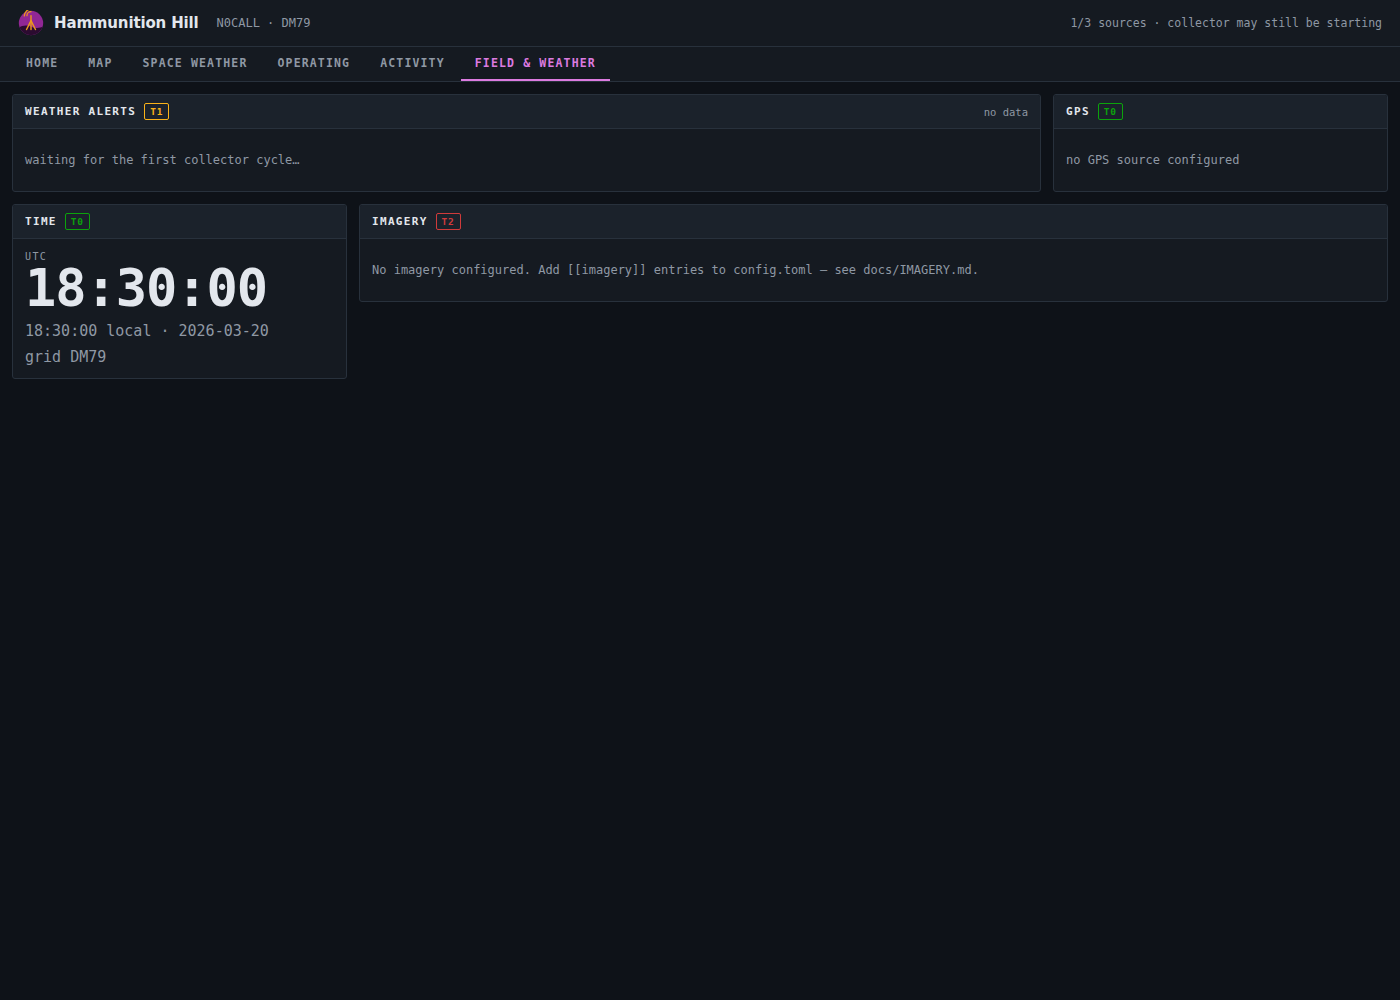
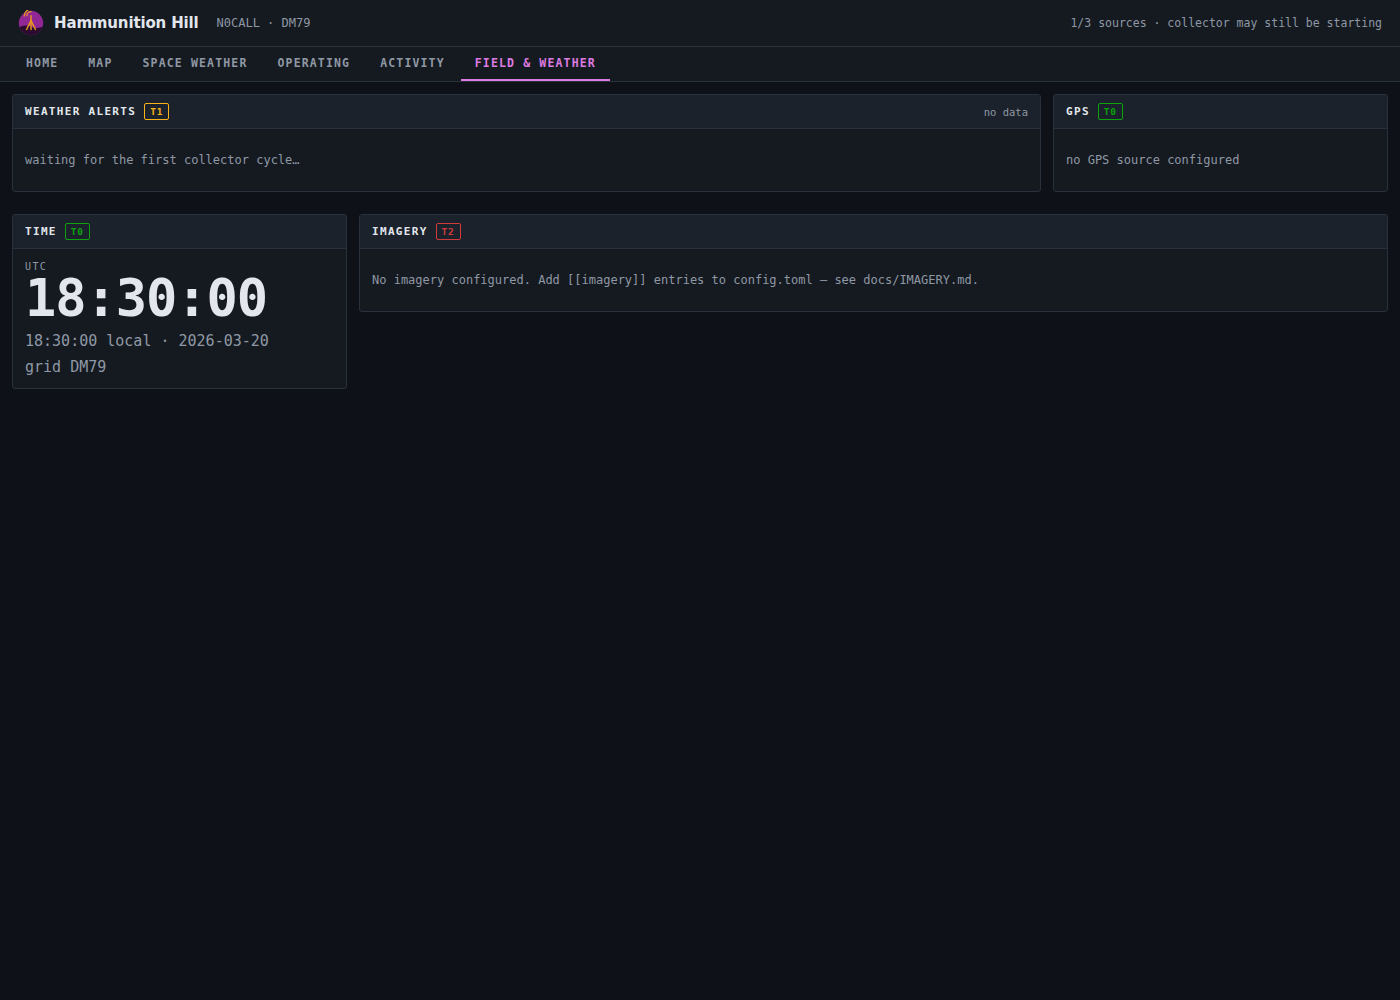
Pack panels like masonry, and make one sheet serve phone, laptop and TV (#33)
The dashboards had a lot of dead space, and the cause was structural: in
a CSS grid a row is as tall as the tallest panel in it, so a short panel
beside a tall one strands the whole difference. On Operating, the
logbook beside the band plan left ~1300px of nothing.

CSS cannot fix that alone, so app.js now measures each panel with a
ResizeObserver and spans it across a fine 8px row lattice;
grid-auto-flow: dense lets later panels fill holes earlier wide ones
left. Observing the panel itself cannot loop, because align-items: start
means a panel never stretches to its grid area -- its measured height is
always its content's natural height.

The lattice is measured from computed style, not assumed, because the
first version hardcoded the 12px gap while the phone breakpoint uses 8
-- every span came out short by the difference and each panel was
painted over by the next. That failure mode is silent everywhere: no
console error, every panel renders, each one underneath its neighbour.
So the render harness now fails if any two panels overlap by more than a
couple of pixels, on every dashboard. Falsified by shorting the span
arithmetic by six rows: six named overlaps with sizes.

One sheet, three rooms:

  * Under 680px -- a phone in the field over ZTNA back to the shack --
    one column, tighter chrome, finger-sized tab targets, and a header
    that wraps deliberately instead of three flex items colliding.
  * The middle is unchanged.
[…]

Changed region(s): [[0.2457, 0.217, 0.7064, 0.31], [0.0, 0.217, 0.215, 0.372]]

diff --git a/web/style.css b/web/style.css
@@ -78,7 +78,52 @@ body {
   gap: 12px;
   padding: 12px;
   grid-template-columns: repeat(auto-fill, minmax(320px, 1fr));
+  /* dense: let a later panel slot into a hole an earlier wide one left, so a
+     dashboard with mixed spans does not strand half a row of empty space.
+     Visual order can then differ from DOM order -- acceptable here because
+     every panel is an independent readout, nothing reads as a sequence, and
+     assistive tech follows the DOM, which is unchanged. */
+  grid-auto-flow: dense;
+  /* The 8px lattice the masonry packs into: app.js measures each panel and
+     spans it across as many of these as its content needs. align-items:
+     start is load-bearing twice over -- it keeps a panel its natural height,
+     and that is also what makes measuring the panel safe for the observer
+     that sets the span. */
+  grid-auto-rows: 8px;
   align-items: start;
+}
+
+/* --- one sheet, three rooms -------------------------------------------
+   The same dashboard is a phone in a field (over ZTNA back to the shack), a
+   laptop, and a TV on a shack wall. Nothing here changes what is shown --
+   only how much room it gets and how far away it is readable from.
+
+   The TV tiers scale with zoom rather than per-element font sizes: the sheet
+   is written in px throughout, and zoom scales layout and type together, so
+   the 320px column minimum becomes an effective 400px at 1.25 -- which is
+   what a 10-foot read needs anyway. Standardised in CSS Viewport and
+   supported by every browser a wall display plausibly runs; anything old
+   enough to lack it simply renders the laptop view. */
+@media (max-width: 680px) {
+  /* A phone: one column already (the 320px minimum sees to it); reclaim the
+     chrome. Padding and gaps shrink, tab targets grow to finger size, and the
+     header wraps deliberately -- brand on its own line, station and status
+     sharing the next -- instead of three flex items colliding mid-word. */
+  .grid { gap: 8px; padding: 8px; }
+  .topbar { padding: 8px 10px; gap: 4px 10px; flex-wrap: wrap; }
+  .topbar .brand { flex: 1 0 100%; }
+  .topbar .status { margin-left: auto; text-align: right; }
+  .tabs-bar { padding: 0 4px; }
+  .tab { padding: 12px 10px; font-size: 12px; }
+}
+@media (min-width: 1920px) {
+  body { zoom: 1.15; }
+}
+@media (min-width: 2560px) {
+  body { zoom: 1.4; }
+}
+@media (min-width: 3800px) {
+  body { zoom: 1.9; }
 }
 
 /* --- panel chrome ---------------------------------------------------- */
@@ -178,8 +223,22 @@ a:focus-visible, button:focus-visible { outline: 2px solid var(--accent); outlin
   * { animation: none !important; transition: none !important; }
 }
 
-/* --- wide panels ------------------------------------------------------ */
-.panel { grid-column: span min(var(--span, 1), 3); }
+/* --- wide panels ------------------------------------------------------
+   A span wider than the grid has columns does not clamp -- it forces implicit
+   tracks, and the whole page scrolls sideways. On a phone the grid is one
+   column, so every span must collapse to 1 there; in between, cap at what
+   actually fits. This shipped as an unconditional span min(--span, 3), which
+   made a span-3 panel overflow any viewport under ~1000px. */
+.panel {
+  grid-column: span min(var(--span, 1), 3);
+  grid-row: span var(--rows, 30);
+}
+@media (max-width: 1023px) {
+  .panel { grid-column: span min(var(--span, 1), 2); }
+}
+@media (max-width: 680px) {
+  .panel { grid-column: auto; }
+}
 
 /* --- filter chips ----------------------------------------------------- */
 .filters { display: flex; flex-wrap: wrap; gap: 10px 14px; margin-bottom: 10px; }

diff --git a/web/app.js b/web/app.js
@@ -61,6 +61,44 @@ function buildTabs(dashboards, active, onPick) {
   return bar;
 }
 
+// Panels pack like masonry: the grid's rows are a fine 8px lattice, each
+// panel spans as many as its natural height needs, and dense flow fills the
+// holes. CSS grid alone cannot do this -- a row is as tall as the tallest
+// panel in it, so a short panel beside a tall one strands the whole
+// difference as dead space. On the Operating dashboard that was ~1300px of
+// nothing under the logbook, beside the band plan.
+//
+// One observer for every panel. Observing the panel itself cannot loop,
+// because align-items: start means a panel never stretches to its grid area:
+// its measured height is always its content's natural height, whatever span
+// that height is then translated into. The callback runs after layout and
+// before paint, so the span is settled before anything is shown.
+//
+// The lattice is measured from the grid, not assumed: the row unit and the
+// gap are the stylesheet's to change per breakpoint, and the first version of
+// this hardcoded a 12px gap while the phone breakpoint used 8 -- every span
+// came out short by the difference, and each panel was painted over by the
+// next. N spanned tracks cover N*row + (N-1)*gap, so N must satisfy
+// N >= (height + gap) / (row + gap).
+const sizer = new ResizeObserver((entries) => {
+  const style = getComputedStyle(GRID);
+  const row = parseFloat(style.gridAutoRows) || 8;
+  const gap = parseFloat(style.rowGap) || 12;
+  for (const entry of entries) {
+    const height = entry.target.getBoundingClientRect().height;
+    const rows = Math.max(1, Math.ceil((height + gap) / (row + gap)));
+    entry.target.style.setProperty("--rows", String(rows));
+  }
+});
+
+// A breakpoint change alters the lattice without resizing any panel whose
+// content happens to reflow to the same height, so re-measure everything when
+// the window changes rather than trusting the observer to have a reason to.
+window.addEventListener("resize", () => {
+  for (const panel of GRID.querySelectorAll(".panel")) sizer.unobserve(panel);
+  for (const panel of GRID.querySelectorAll(".panel")) sizer.observe(panel);
+});
+
 function buildFrame(manifest) {
   const panel = el("section", "panel");
   panel.dataset.panel = manifest.id;
@@ -77,6 +115,7 @@ function buildFrame(manifest) {
 
   const body = el("div", "panel-body");
   panel.append(head, body);
+  sizer.observe(panel);
   GRID.append(panel);
   return { body, age };
 }

diff --git a/.github/scripts/render_check.py b/.github/scripts/render_check.py
@@ -265,6 +265,31 @@ const BASE = `http://127.0.0.1:${PORT}/`;
         problems.push(`${tab}/${panel.id}: ${panel.body.trim().slice(0, 200)}`);
       }
     }
+
+    // No two panels may overlap. The masonry sizing computes each panel's
+    // row span from its measured height, and the failure mode of getting
+    // that arithmetic wrong is silent everywhere else: the page loads, no
+    // console error, every panel renders -- and each one is painted over by
+    // the next. It shipped exactly that way once, on the phone breakpoint,
+    // where the grid gap differed from the constant the arithmetic assumed.
+    const overlaps = await page.$$eval('#grid .panel', (els) => {
+      const found = [];
+      const rects = els.map((e) => ({ id: e.dataset.panel, r: e.getBoundingClientRect() }));
+      for (let i = 0; i < rects.length; i++) {
+        for (let j = i + 1; j < rects.length; j++) {
+          const a = rects[i].r, b = rects[j].r;
+          const x = Math.min(a.right, b.right) - Math.max(a.left, b.left);
+          const y = Math.min(a.bottom, b.bottom) - Math.max(a.top, b.top);
+          // A shared border rounds to a sliver; demand real intrusion.
+          if (x > 2 && y > 2) {
+            const size = `${Math.round(x)}x${Math.round(y)}px`;
+            found.push(`${rects[i].id} overlaps ${rects[j].id} by ${size}`);
+          }
+        }
+      }
+      return found;
+    });
+    for (const overlap of overlaps) problems.push(`${tab}: ${overlap}`);
     const slug = tab.toLowerCase().replace(/[^a-z0-9]+/g, '-');
     await page.screenshot({ path: `${SHOTS}/${slug}.png`, fullPage: true });
     console.log(`  ${tab}: ${panels.length} panels ok`);

diff --git a/docs/ARCHITECTURE.md b/docs/ARCHITECTURE.md
@@ -278,6 +278,30 @@ shows an error in its own frame instead of taking the dashboard down.
 Tier 0 panels re-render on a one-second tick independent of any fetch, which is
 why the clock keeps working when nothing else does.
 
+### Layout: masonry over a CSS grid
+
+Panels pack like masonry. The grid's rows are a fine 8px lattice, a
+`ResizeObserver` measures each panel's natural height and spans it across as
+many rows as it needs, and `grid-auto-flow: dense` lets a later panel fill a
+hole an earlier wide one left. CSS grid alone cannot do this — a row is as tall
+as the tallest panel in it, so a short panel beside a tall one strands the
+whole difference as dead space; on the Operating dashboard that was over a
+thousand pixels of nothing.
+
+The lattice's row unit and gap are read from computed style rather than
+assumed, because the phone breakpoint uses a tighter gap than the desktop one
+and a constant in the JavaScript shipped every span short by the difference —
+each panel painted over by the next. The render harness now fails if any two
+panels overlap by more than a couple of pixels, on every dashboard, because
+that failure mode is otherwise silent: no console error, every panel renders,
+and each one is underneath the next.
+
+One sheet serves three rooms. Under 680px — a phone in the field, usually over
+ZTNA back to the shack — the grid is one column, chrome shrinks, and tap
+targets grow. From 1920px up — a TV on the shack wall — the page scales up
+via zoom tiers, so layout and type grow together and the 320px column minimum
+becomes the wider column a 10-foot read needs anyway.
+
 ## Why Python
 
 The original sketch called for a single static Go binary, on the grounds that
